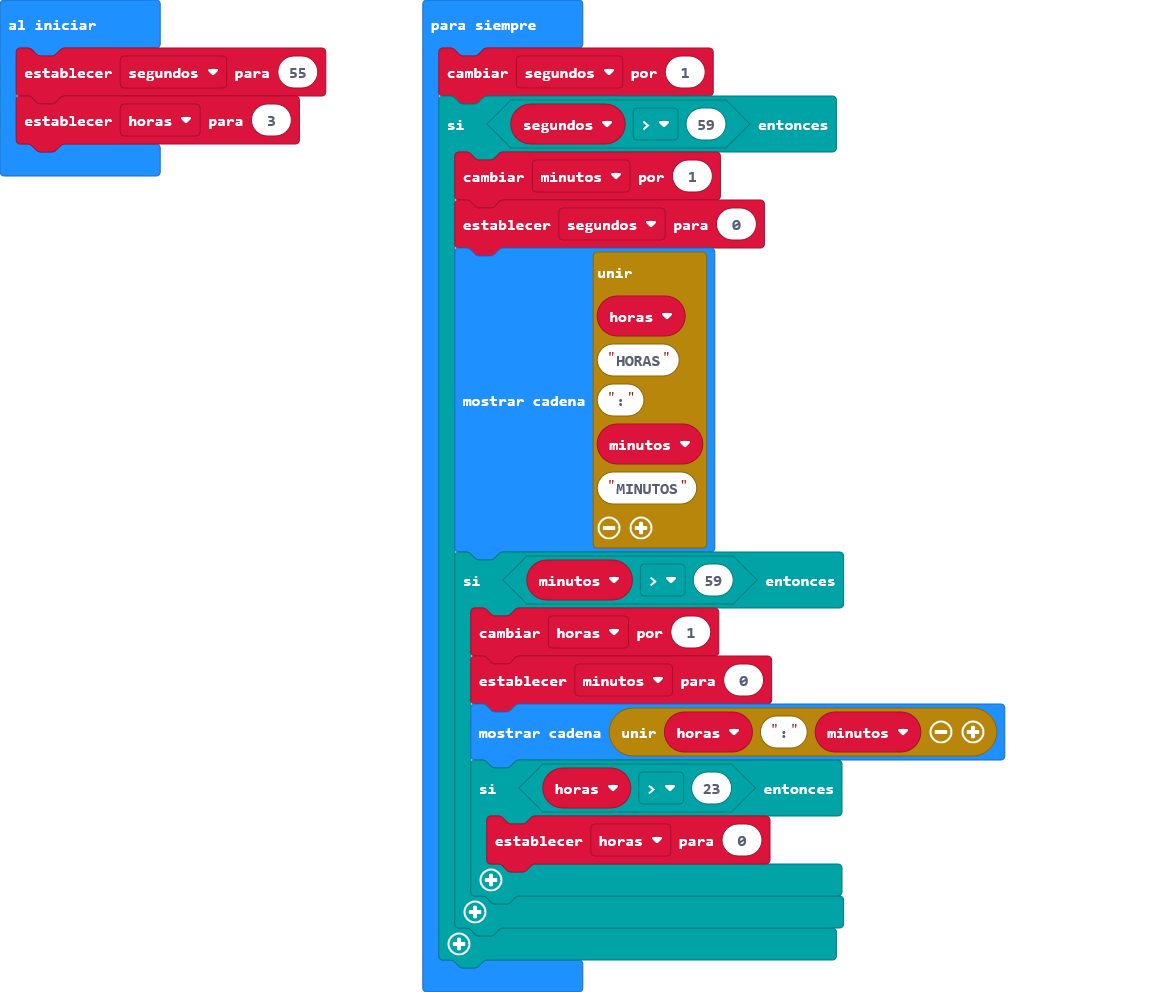
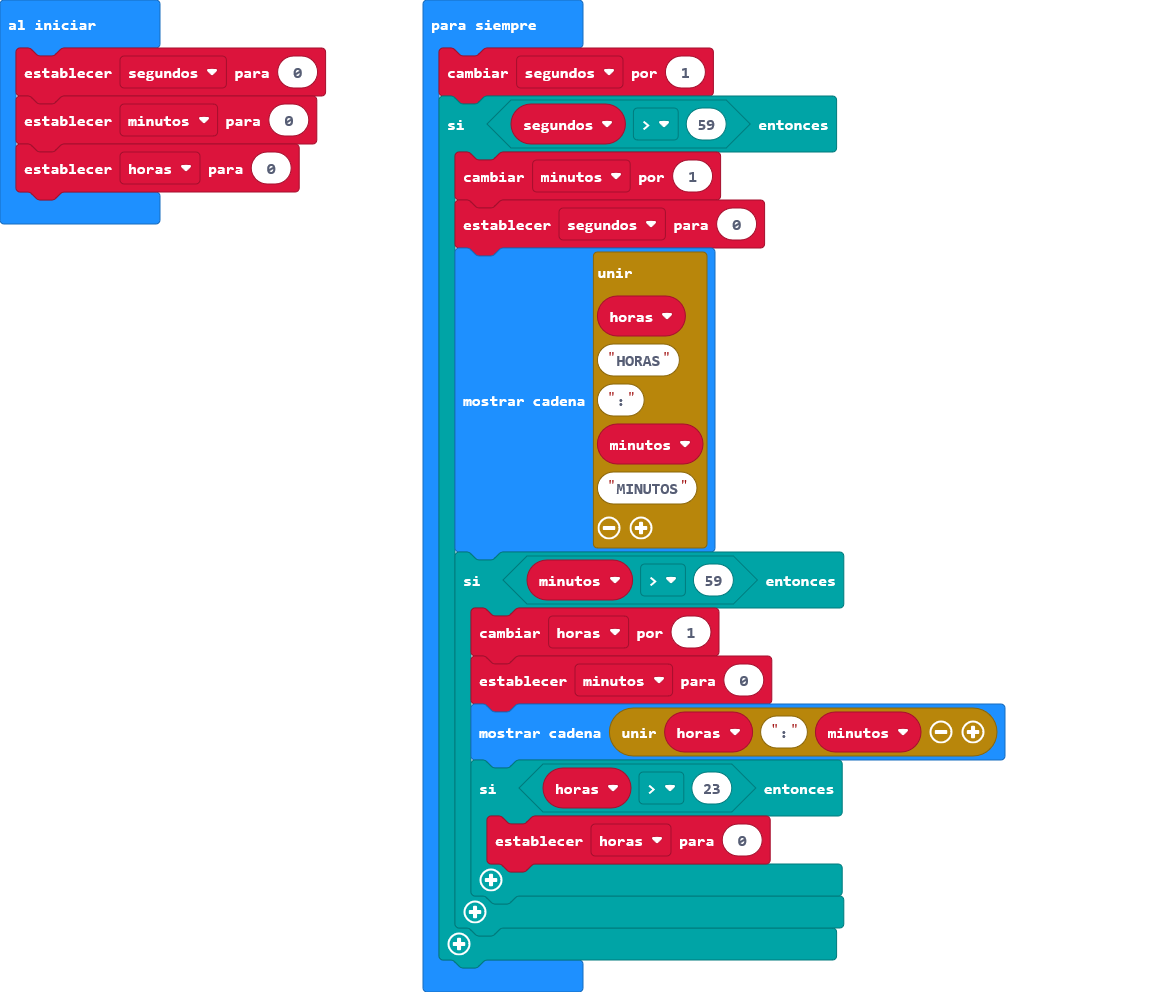
Actualizar main.blocks, main.ts

Changed region(s): [[0.0, 0.0625, 0.2791, 0.25], [0.5271, 0.4688, 0.5581, 0.5], [0.5271, 0.3438, 0.5581, 0.375]]

diff --git a/main.ts b/main.ts
@@ -1,6 +1,6 @@
+let segundos = 0
 let minutos = 0
-let segundos = 55
-let horas = 3
+let horas = 0
 basic.forever(function () {
     segundos += 1
     if (segundos > 59) {
